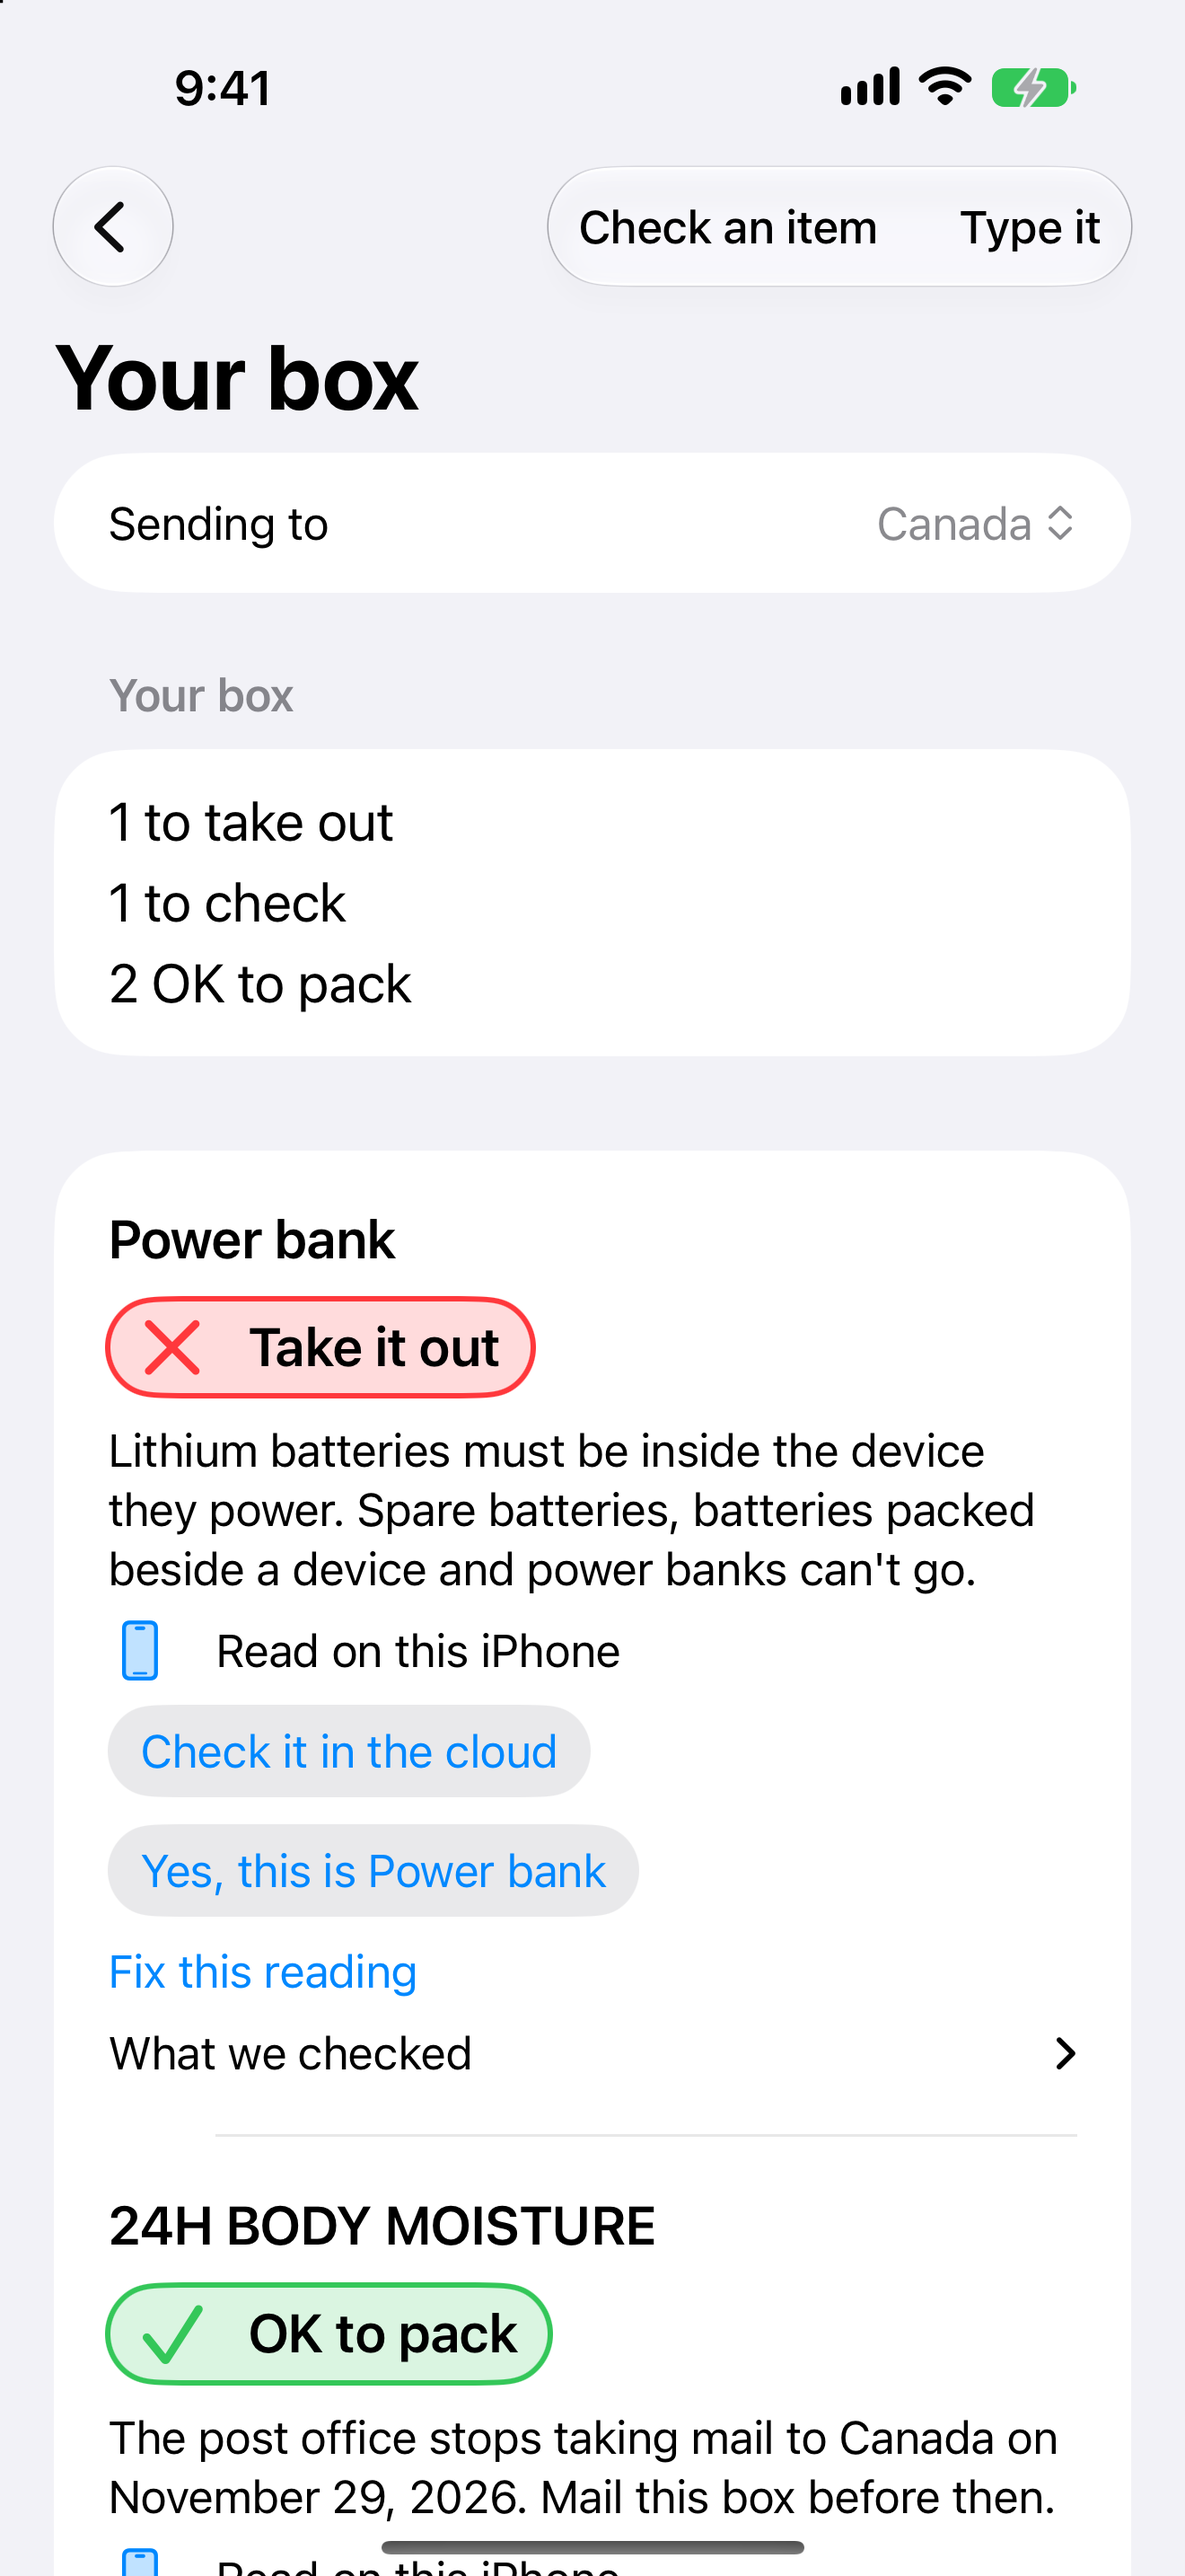
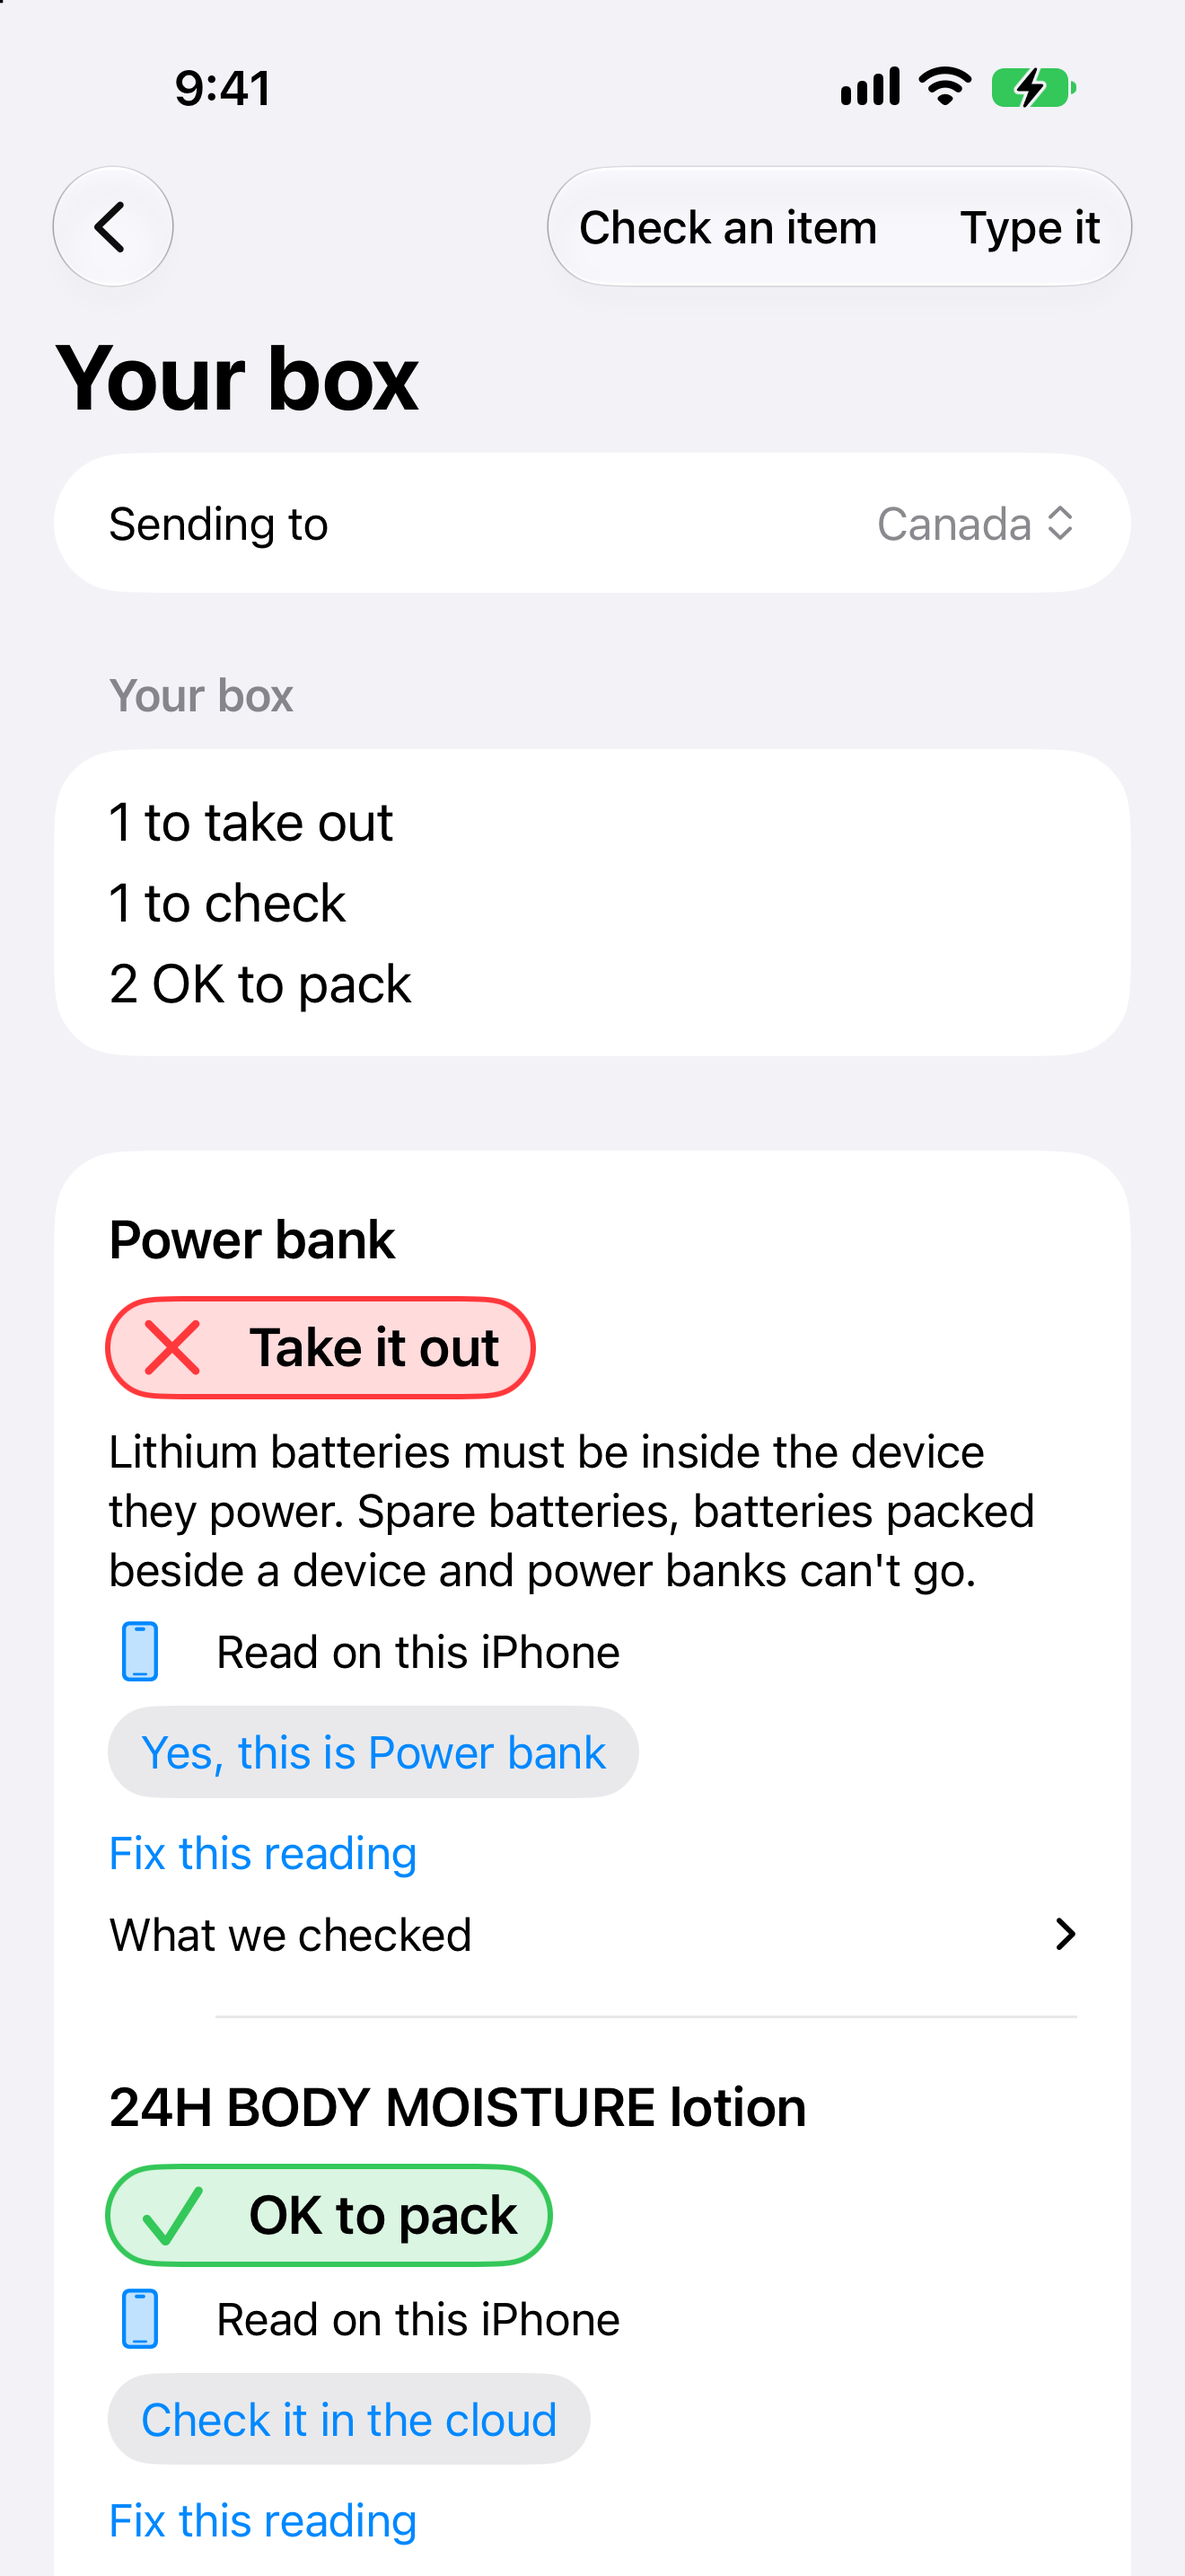
docs(ios): App Store screenshots 03 to 05 and review notes for build 4, with no Canada note
03, 04 and 05 were captured again from the Release build of 14d6f7c (build 4, rule edition
revision 9) on the 6.9-inch simulator, with the same photos and hand steps. 03 and 04 no longer
show the Canada suspension note. The review notes no longer tell App Review that USPS stops
taking mail to Canada, and they describe build 4. The listing's version note matches.

Verified: 1320 x 2868 RGB with no alpha; check_lengths exit 0 (review notes 3840/4000);
hygiene, tone and web tests (1311) exit 0.

diff --git a/ios/app-store/screenshots/README.md b/ios/app-store/screenshots/README.md
@@ -1,8 +1,9 @@
 # App Store screenshots (6.9-inch iPhone, 1320 x 2868)
 
-Captured on 2026-11-21 from the Release build of commit ba1e88a (the commit uploaded as 1.0.0
-build 1, rule edition revision 3) on an iPhone 17 Pro Max simulator (iOS 27.2), with
-`xcrun simctl io <device> screenshot`. The status bar was set to 9:41 with
+01 and 02 were captured on 2026-11-21 from the Release build of commit ba1e88a (the commit uploaded
+as 1.0.0 build 1, rule edition revision 3). 03, 04 and 05 were captured again on 2026-11-26 from the
+Release build of commit 14d6f7c (the commit uploaded as 1.0.0 build 4, rule edition revision 9). All
+were taken on an iPhone 17 Pro Max simulator (iOS 27.2), with `xcrun simctl io <device> screenshot`. The status bar was set to 9:41 with
 `xcrun simctl status_bar`. Every read is a real read by Apple's on-device model on that simulator
 (the Mac's model), through the app's own screens: Add a photo, then the photo picker. The files
 are saved as RGB PNGs with no alpha channel, as App Store Connect asks; the simulator's alpha was
@@ -12,14 +13,11 @@ fully opaque, so no pixel changed.
 |---|---|
 | 01-ready-check.png | Ready check: signed in, this iPhone checks items with no network, label photos are read on it, and Delete everything on this iPhone. |
 | 02-check-a-photo.png | A power bank label read on the iPhone: "Power bank: Take it out. Read on this iPhone." |
-| 03-your-box.png | The box for Canada: 1 to take out, 1 to check, 2 OK to pack. The power bank shows Check it in the cloud (cloud checks were never answered, so it asks first), and the lotion's note says the post office stops taking mail to Canada on November 29, 2026. |
-| 04-why-and-when.png | A perfume whose question ("Does the label list alcohol?") was answered "Can't tell", so it stays "Check this"; the chosen answer is filled. Below it, each rule layer with the date it was checked, then the T-shirt, OK to pack. |
-| 05-another-country.png | The same box sent to the Philippines: "Re-checked 4 items for Philippines in 133 ms. 0 model calls." |
+| 03-your-box.png | The box for Canada: 1 to take out, 1 to check, 2 OK to pack. The power bank is Take it out; the lotion, confirmed, is OK to pack and shows Check it in the cloud (cloud checks were never answered, so it asks first). |
+| 04-why-and-when.png | A perfume whose question ("Does the label list alcohol?") was answered "Can't tell", so it stays "Check this"; the chosen answer is filled. Below it, each rule layer with the date it was checked (service suspensions: 2026-11-25), then the T-shirt, OK to pack. |
+| 05-another-country.png | The same box sent to the Philippines: 3 to take out, 1 OK to pack, "Re-checked 4 items for Philippines in 26 ms. 0 model calls." |
 
-What was done by hand, as a sender would:
-- The on-device read of the lotion set "It is a spray or under pressure", so the rules said Take it
-  out. That switch was turned off in Fix this reading (the read's category, Lotion or cream, was
-  right), and the lotion then needed only its confirmation.
+What was done by hand, as a sender would (for 03 to 05):
 - The lotion, the T-shirt and the perfume were confirmed with their "Yes, this is ..." buttons.
 - The perfume's alcohol question was answered "Can't tell", because the photo's record does not say
   what its label lists.
@@ -34,8 +32,10 @@ representative lines (company names, a street address and an email address) were
 
 - The simulator has no camera, so 02 shows "No camera found. Add a photo instead." above the read.
   A real iPhone shows the camera there. Replace 02 with a 6.9-inch device capture if one is made.
-- 03 and 04 carry the layer dates of rule edition revision 3, and 03 its Canada suspension note. That
-  note came from an inactive banner on the USPS service alerts page: USPS has not suspended mail to
-  Canada, and rule edition revision 9 drops it. Capture again for a later version.
-- The re-check time in 05 is what this run measured; another run can show a different time (the
-  earlier capture showed 1 ms).
+- The captures from revision 3 had a Canada suspension note on the lotion and the T-shirt (in 03 and
+  04). That note came from an inactive banner on the USPS service alerts page: USPS has not suspended
+  mail to Canada, and rule edition revision 9 drops it. 03, 04 and 05 were captured again with
+  revision 9 and carry no such note.
+- The perfume's name in 04 is spelled as the on-device model read it ("BELLLAVITA").
+- The re-check time in 05 is what this run measured; another run can show a different time (earlier
+  captures showed 133 ms and 1 ms).

diff --git a/ios/app-store/review-notes.md b/ios/app-store/review-notes.md
@@ -6,7 +6,7 @@ demo account is needed.
 
 ## Notes for the reviewer
 
-1. Screen recording (attached, 70 s): build 1 of this version on an iPhone 17 Pro with iOS 27.2.1, from the Home Screen: the app opens on Ready check, then labels are read on the iPhone. The photo library thumbnails are blurred for privacy. Build 2 changes only the rule edition (revision 4) and build number. An earlier build on the same iPhone also read 22 labels on the iPhone in airplane mode (11 minutes, on request).
+1. Screen recording (attached, 70 s): build 1 of this version on an iPhone 17 Pro with iOS 27.2.1, from the Home Screen: the app opens on Ready check, then labels are read on the iPhone. The photo library thumbnails are blurred for privacy. Build 4 has rule edition revision 9 and app changes made since build 1. An earlier build on the same iPhone also read 22 labels on the iPhone in airplane mode (11 minutes, on request).
 
 2. Purpose and audience: people in the US who mail gifts and personal items abroad with USPS. Batteries, liquids, sprays and flammable items have rules that differ by item and by country. You photograph an item's label, the app reads it, and a rules engine bundled with the app says OK to pack, Check this or Take it out, with the rule behind it. The model only reads the label. The rules decide every verdict.
 
@@ -23,9 +23,9 @@ With Apple Intelligence on, photos and typed label words are read on the iPhone,
 - Firebase Authentication: an anonymous sign-in.
 - Firebase App Check with App Attest: the cloud calls are accepted only from this app.
 - Firebase Remote Config: settings such as the cloud model and a switch that pauses all cloud calls.
-- Cloud Firestore: reads a newer rule edition only when Remote Config names one; none is named now.
+- Cloud Firestore: reads the rule edition Remote Config names; the app keeps its own bundled edition when the named one is older, as it is now.
 The rules engine and the rule edition are bundled in the app. No payments, ads or user accounts.
 
-5. Regional differences: available in every country and region except France and China mainland. France: the TLS library in the Firebase SDK is exempt from export documentation everywhere but France. China mainland: cloud checks use generative AI, which there needs filings this app does not have. Reading on the iPhone needs Apple Intelligence, which only some iPhones, languages and regions support; elsewhere a photo needs the cloud check, asked first. The rules are the same in every region. Destinations in this edition: Canada and the Philippines. USPS stops taking mail to Canada on November 29, 2026; a Canada box says so before that day and from it says nothing can go. Pick the Philippines to see items marked OK to pack.
+5. Regional differences: available in every country and region except France and China mainland. France: the TLS library in the Firebase SDK is exempt from export documentation everywhere but France. China mainland: cloud checks use generative AI, which there needs filings this app does not have. Reading on the iPhone needs Apple Intelligence, which only some iPhones, languages and regions support; elsewhere a photo needs the cloud check, asked first. The rules are the same in every region. Destinations in this edition: Canada and the Philippines.
 
 6. Regulated material: none. The rules come from USPS's public International Mail Manual and service alerts. The app gives guidance, not legal or customs advice, and mails nothing. Not affiliated with or approved by the US Postal Service.

diff --git a/ios/CHANGELOG.md b/ios/CHANGELOG.md
@@ -5,6 +5,25 @@ Each entry: what changed, its source, and how it was verified (with the exit cod
 
 ## 2026-11-26
 
+### docs(ios): App Store screenshots 03 to 05 and review notes for build 4, with no Canada note
+- What:
+  - `app-store/screenshots/03-your-box.png`, `04-why-and-when.png` and `05-another-country.png` were
+    captured again from the Release build of 14d6f7c (build 4, rule edition revision 9). It ran on the
+    6.9-inch simulator, with the same four photos and the same hand steps. 03 and 04 no longer show the
+    Canada suspension note: it was on the lotion in 03 and on the T-shirt in 04, which the README had not
+    said. 04's layers show service suspensions checked on 2026-11-25. 01 and 02 are unchanged, and 02
+    keeps its blurred maker and address lines.
+  - `app-store/review-notes.md` no longer tells App Review that USPS stops taking mail to Canada on
+    November 29, 2026. It says build 4 has revision 9 and the app changes since build 1, and that the
+    app keeps its bundled edition when the one Remote Config names is older. It used to say no edition
+    was named. `app-store/listing.md`'s version note says the same for build 4.
+- Source: review (the misread Canada suspension), for build 4's resubmission.
+- Verified:
+  - Each new screenshot is 1320 x 2868 RGB, with no alpha channel; the simulator's alpha was fully
+    opaque, checked before conversion.
+  - `python3 -I ios/app-store/check_lengths.py` exit 0 (review notes 3840 / 4000).
+  - `ci-local-ios.sh` was not run: no file the app builds from changed.
+
 ### chore(ios): build 4, with rule edition revision 9 built in
 - What: CURRENT_PROJECT_VERSION goes from 3 to 4. MARKETING_VERSION stays 1.0.0. Build 4 carries rule
   edition revision 9 (`byt-d098b14aa534`, no upcoming suspensions, so no Canada note) built in, in place

diff --git a/ios/app-store/listing.md b/ios/app-store/listing.md
@@ -75,5 +75,6 @@ shared location, social media, dating, gambling or loot boxes. Apple's rating fr
 
 ## Version
 
-`MARKETING_VERSION` is 1.0.0 in `ios/project.yml`, the first App Store version. Build 2 differs from
-build 1 only in its rule edition (revision 4). Keep the version in App Store Connect the same.
+`MARKETING_VERSION` is 1.0.0 in `ios/project.yml`, the first App Store version. Build 4 has rule
+edition revision 9 built in, with the app changes made since build 1. Keep the version in App Store
+Connect the same.
